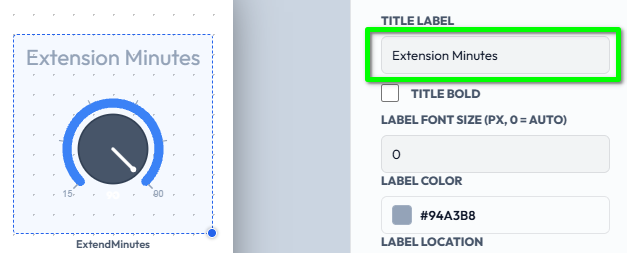
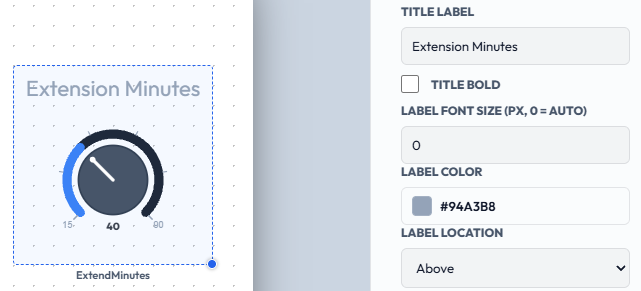
docs(tutorial): chapter 10 retaken knob screenshots showing the value text

diff --git a/sentinel-scada/docs/tutorial/10-add-modbus-device/index.html b/sentinel-scada/docs/tutorial/10-add-modbus-device/index.html
@@ -141,7 +141,7 @@
 
   <p>Back on our screen, this time we will use an <b>Analog Knob</b>. Bind <code>ExtendMinutes</code> to it, using the same search box or browse button as before.</p>
   <figure>
-    <img src="18.png" alt="An Analog Knob on the canvas with Data Tag Bind set to ExtendMinutes" width="616" height="272">
+    <img src="18.png" alt="An Analog Knob on the canvas with Data Tag Bind set to ExtendMinutes" width="635" height="320">
   </figure>
 
   <p>Save the screen with <b>File</b> &gt; <b>Save Screen</b>, choose <b>View</b> &gt; <b>Run Mode</b>, and try to adjust the value. Because the tag itself has limits, the system will not let us go outside them.</p>
@@ -151,19 +151,19 @@
 
   <p>We can avoid that message by giving the knob the same limits, and showing them on the knob also makes it easier to read. In <b>Geometry &amp; Limits</b>, set <b>Min Scale Value</b> to <code>15</code> and <b>Max Scale Value</b> to <code>90</code>, with a <b>Step Size</b> of <code>1</code> and no <b>Decimal Places</b>. Tick <b>Show Min/Max &amp; Ticks</b>.</p>
   <figure>
-    <img src="20.png" alt="The knob showing 15 and 90 at its ends, with Min Scale Value 15, Max Scale Value 90, Step Size 1, Decimal Places 0 and Show Min/Max and Ticks ticked" width="644" height="510">
+    <img src="20.png" alt="The knob showing 15 and 90 at its ends, with Min Scale Value 15, Max Scale Value 90, Step Size 1, Decimal Places 0 and Show Min/Max and Ticks ticked" width="653" height="515">
   </figure>
 
   <div class="note"><b>Two layers of limits</b> The tag's own Min and Max are the real protection, and they apply to every widget and every operator. The knob's limits just make the widget behave sensibly. Set both.</div>
 
   <p>Finally, in <b>Styling &amp; Appearance</b>, give the knob a <b>Title Label</b> of <code>Extension Minutes</code>.</p>
   <figure>
-    <img src="21.png" alt="The knob with the title Extension Minutes above it and the Title Label field highlighted" width="627" height="253">
+    <img src="21.png" alt="The knob with the title Extension Minutes above it and the Title Label field highlighted" width="641" height="291">
   </figure>
 
   <p>Here is the finished result. There are many more settings to play with to get the look and feel you want, and we will leave those for you to explore.</p>
   <figure>
-    <img src="22.png" alt="The finished Extension Minutes knob above the green Plant Extend switch" width="206" height="233">
+    <img src="22.png" alt="The finished Extension Minutes knob above the green Plant Extend switch" width="218" height="237">
   </figure>
 
   <h2>Summary</h2>
